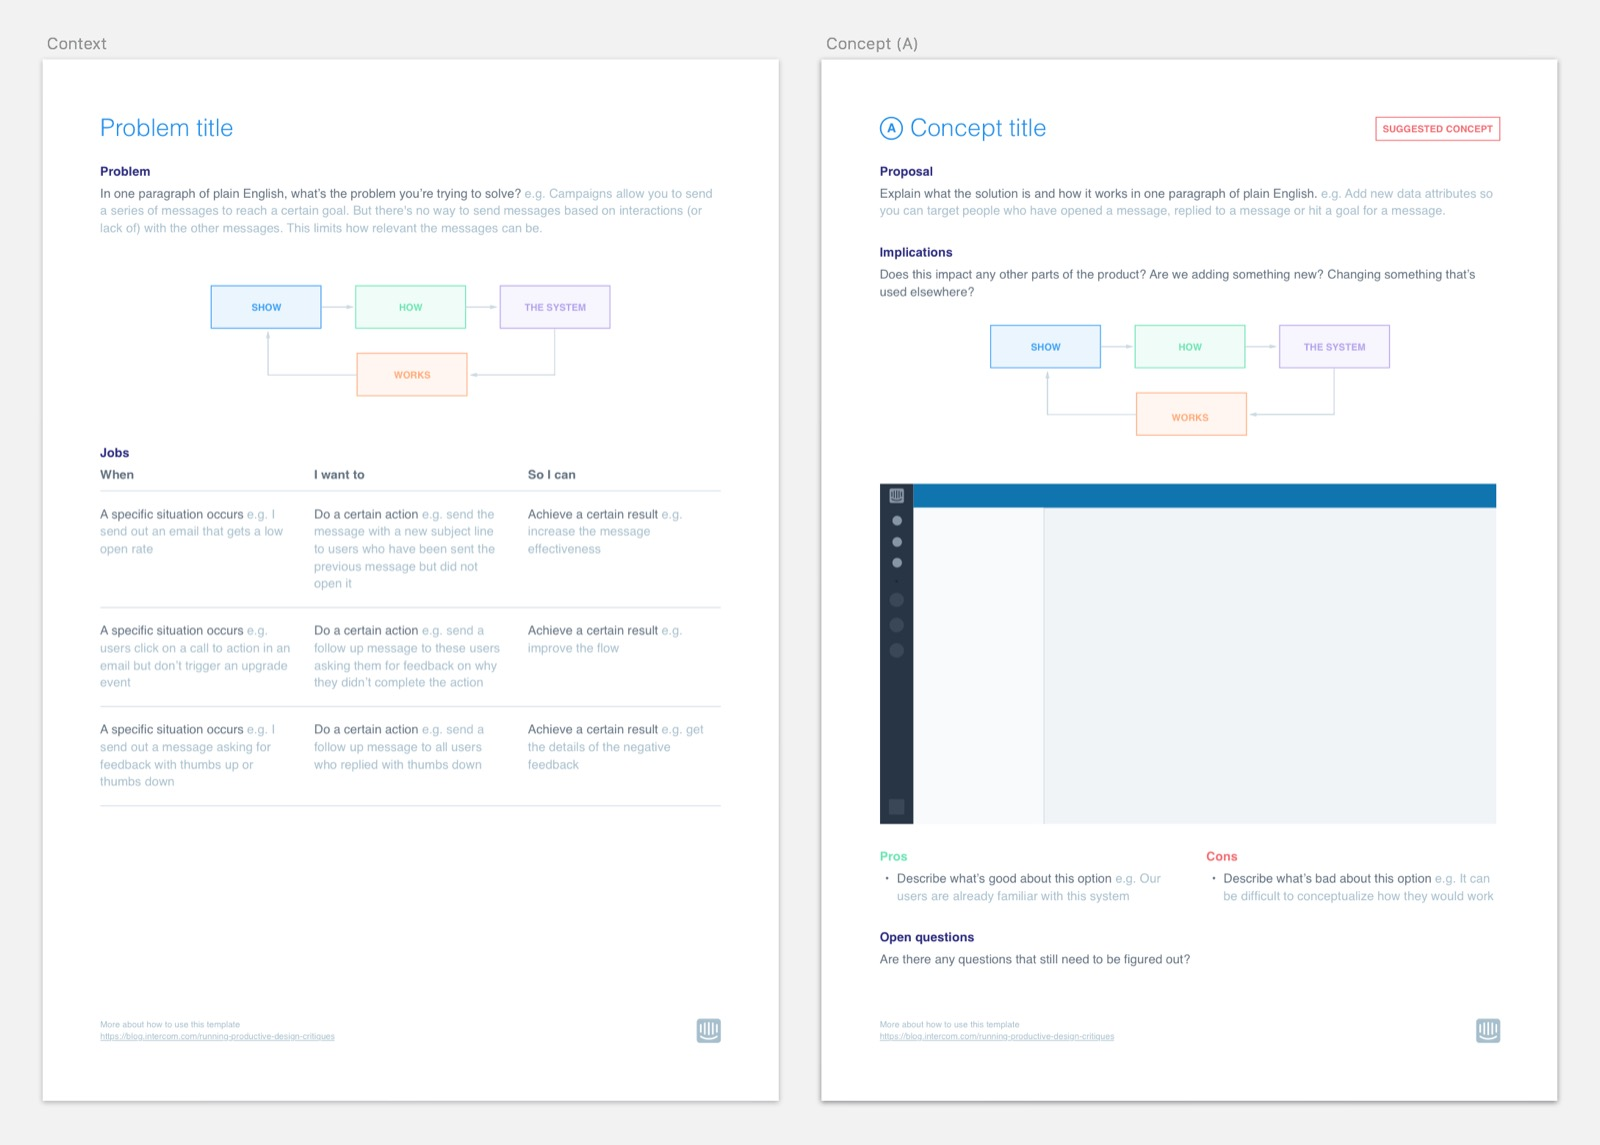
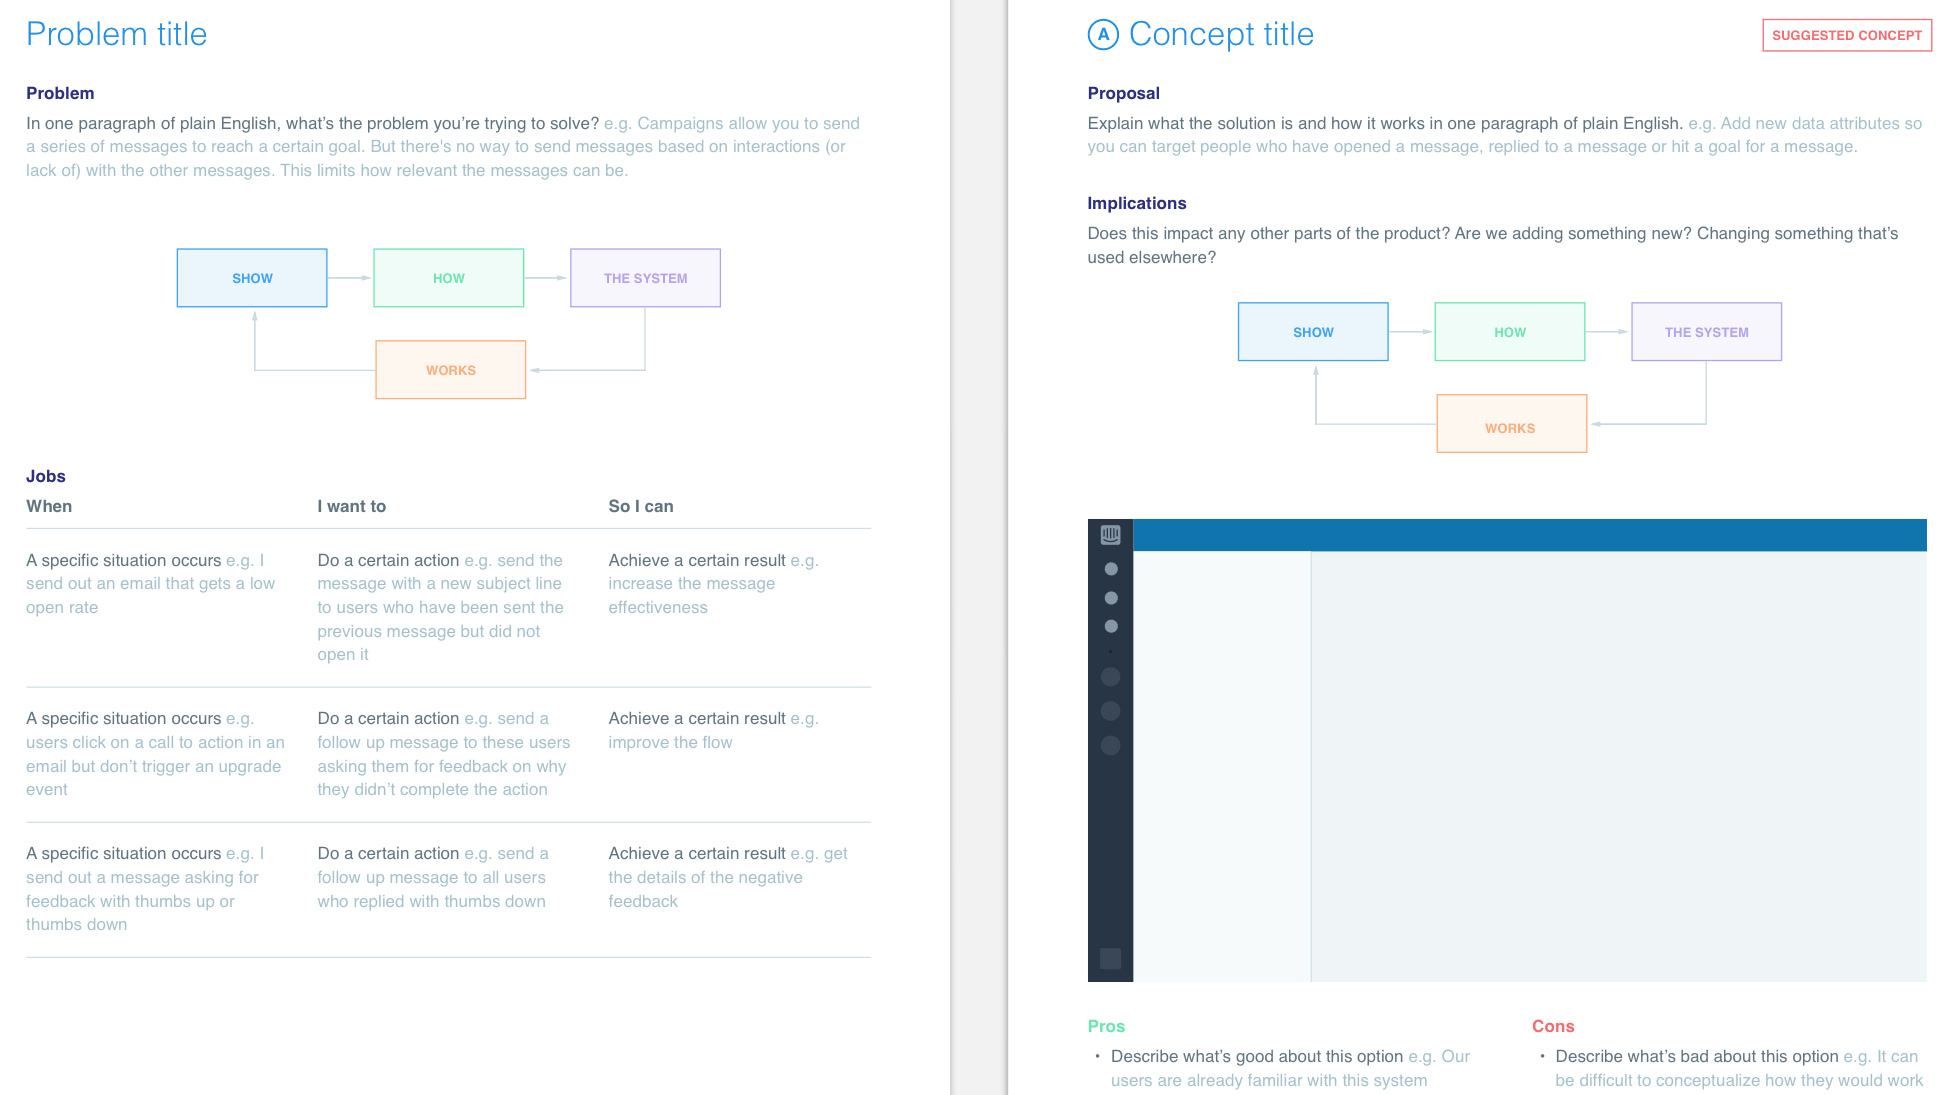
fix(sdw-26-VI): přiblížená šablona Intercomu, širší sloupec s obrázkem
Erik: oddálená verze se z publika nedá přečíst.

diff --git a/pages/presentations/slidev/sdw-26-VI/slides.md b/pages/presentations/slidev/sdw-26-VI/slides.md
@@ -328,7 +328,7 @@ hideInToc: true
 
 ---
 layout: two-column
-ratio: "50-50"
+ratio: "40-60"
 hideInToc: true
 ---
 
